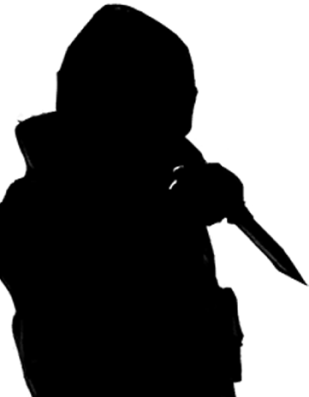
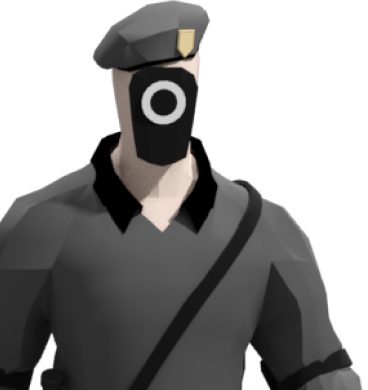
pushy3
- replaced combat mode unit avatar
- new conflict res page
- main menu can go to combat mode

diff --git a/Editor/src/Window/Overlay/ConflictResOverlay.cpp b/Editor/src/Window/Overlay/ConflictResOverlay.cpp
@@ -18,7 +18,8 @@ namespace Tempest
 	void ConflictResOverlay::open_popup(const Event&)
 	{
 		OverlayOpen = true;
-		ConflictBg = tex_map["Assets/ConflictBG.png"];
+		SelectedConflictRes = 0;
+		SelectedSequences.clear();
 	}
 	void ConflictResOverlay::show([[maybe_unused]]Instance& instance)
 	{
@@ -30,51 +31,89 @@ namespace Tempest
 		{
 			window_flags |= ImGuiWindowFlags_NoScrollbar | ImGuiWindowFlags_NoScrollWithMouse;
 
-			//ImGui::PushStyleColor(ImGuiCol_WindowBg, ImVec4(0.0f, 0.0f, 0.0f, 0.3f));
+			ImGui::PushStyleColor(ImGuiCol_WindowBg, ImVec4(0.0f, 0.0f, 0.0f, 0.8f));
 			ImGui::PushStyleVar(ImGuiStyleVar_WindowPadding, { 0,0 });
 			if (ImGui::Begin("Conflict Resolution", &visible, window_flags))
 			{
-				auto drawlist = ImGui::GetWindowDrawList();
-				auto pos = ImGui::GetCursorPos();
-				ImVec2 max = { pos.x + viewport->Size.x,pos.y + viewport->Size.y };
-				
-				drawlist->AddImage((void*)static_cast<size_t>(ConflictBg->GetID()), pos, max);
-				auto scale = viewport->Size / initViewPortSize ;
-				auto scale2 = initViewPortSize / viewport->Size ;
-				auto scale3 = scale * scale2 ;
+				// render the select map image
+				auto image = tex_map["Assets/MM_SelectCR.png"];
+				ImVec2 point = ImGui::GetCursorScreenPos();
+				ImVec2 Min{ point.x, point.y };
+				ImVec2 Max{ Min.x + viewport->Size.x, Min.y + viewport->Size.y };
+				ImGui::GetWindowDrawList()->AddImage((void*)static_cast<size_t>(image->GetID()), Min, Max);
 
-				ImGui::Dummy({ 0, 70.f });
-				UI::SubHeader("Conflict Resolution");
-				ImGui::SetCursorPos({0.f, pos.y + viewport->Size.y * 0.2f});
-				auto curPos = ImGui::GetCursorPos();
-				for (int i = 0; i < 3; i++)
-				{
-					ImGui::SetCursorPos(curPos);
-					ImGui::Dummy({ pos.x + viewport->Size.x * 0.3f, 0.f });
-					ImGui::SameLine();
-					string str = "CONFLICT RES##" + std::to_string(i);
-					UI::UIConflictSelectable(str.c_str(), false, 1);
-					//ImGui::Dummy({ 0.f, 60.f });
-					ImGui::Dummy({ 0.f, viewport->Size.y * 0.07f });
-					curPos = ImGui::GetCursorPos();
-					
-				}
-				
-				auto tex = tex_map["Assets/BackMenuBtn.png"];
+				// render title
+				ImGui::SetCursorPos(ImVec2{ 0,0 });
+				ImGui::Dummy(ImVec2{ 0.f, ImGui::GetContentRegionAvail().y * 0.05f });
+				UI::SubHeader("Select Conflict Resolution");
+				ImGui::Dummy(ImVec2{ 0.f, ImGui::GetContentRegionAvail().y * 0.05f });
+
+
+				// render back button
 				ImGui::SetCursorPos(ImVec2{ viewport->Size.x * 0.02f,viewport->Size.y * 0.03f });
 				ImGui::PushStyleColor(ImGuiCol_Button, ImVec4{ 0,0,0,0 });
 				ImGui::PushStyleColor(ImGuiCol_ButtonActive, ImVec4{ 0,0,0,0 });
 				ImGui::PushStyleColor(ImGuiCol_ButtonHovered, ImVec4{ 0,0,0,0 });
-				if (UI::UIImageButton((void*)static_cast<size_t>(tex->GetID()), ImVec2{ tex->GetWidth() * 0.7f, tex->GetHeight() * 0.7f }, { 0,0 }, { 1,1 }, 0, { 0,0,0,0 }, btnTintHover, btnTintPressed))
+				image = tex_map["Assets/BackMenuBtn.png"];
+
+				if (ImGui::ImageButton((void*)static_cast<size_t>(image->GetID()), ImVec2{ image->GetWidth() * 0.7f, image->GetHeight() * 0.7f }))
+					OverlayOpen = false;
+
+				ImGui::PopStyleColor(3);
+
+				// draw the child
+				const ImVec2 child_size{ viewport->Size.x * 0.25f, viewport->Size.y * 0.55f };
+				ImGui::SetCursorPos(ImVec2{ viewport->Size.x * 0.5f - child_size.x * 0.5f, viewport->Size.y * 0.55f - child_size.y * 0.5f });
+				if (ImGui::BeginChild("##LoadConflictRes", child_size, true))
+				{
+					const ImVec2 cusor{ ImGui::GetCursorPosX() + 200.0f, ImGui::GetCursorPosY() + 40.0f };
+					// TODO: load the conflict stuff here
+
+					for (int i = 0; i < 4; i++)
+					{
+						ImGui::PushID(std::string{ "ConflictRes" + std::to_string(i) }.c_str());
+						if (UI::UIButton_2("Sample_Conflict", "Sample_Conflict", ImVec2{ cusor.x, cusor.y + i * 90.0f }, { 50,20 }, FONT_BTN, SelectedConflictRes == i))
+						{
+							SelectedConflictRes = i;
+						}
+						ImGui::PopID();
+					}
+				}
+
+				ImGui::EndChild();
+
+				ImGui::SetCursorPos(ImVec2{ viewport->Size.x * 0.8f - child_size.x * 0.5f, viewport->Size.y * 0.55f - child_size.y * 0.5f });
+				if (ImGui::BeginChild("##LoadSequenceConflictRes", child_size, true))
+				{
+					const ImVec2 cusor{ ImGui::GetCursorPosX() + 200.0f, ImGui::GetCursorPosY() + 40.0f };
+
+					// TODO: render all the sequences from selected conflict
+					// TODO: make a popup menu
+					for (int i = 0; i < 8; i++)
+					{
+						std::string seq_name = "Sample_Seq" + std::to_string(i);
+						ImGui::PushID(seq_name.c_str());
+						bool selected = std::find(SelectedSequences.begin(), SelectedSequences.end(), i) != SelectedSequences.end();
+						if (UI::UIButton_2(seq_name.c_str(), seq_name.c_str(), ImVec2{ cusor.x, cusor.y + i * 90.0f }, { 50,20 }, FONT_BTN, selected))
+						{
+							Service<EventManager>::Get().instant_dispatch< MainMenuSequencePopupTrigger>(SelectedSequences);
+						}
+						ImGui::PopID();
+					}
+				}
+
+				ImGui::EndChild();
+
+				if (UI::UIButton_2("Next", "Next", ImVec2{ viewport->Size.x * 0.9f, viewport->Size.y * 0.95f }, { -20,20 }, FONT_BTN))
 				{
 					OverlayOpen = false;
+					Service<EventManager>::Get().instant_dispatch<OpenTurnOrderOverlay>();
 				}
-				ImGui::PopStyleColor(3);
 			}
-			ImGui::PopStyleVar();
 			ImGui::End();
+			ImGui::PopStyleVar();
+			ImGui::PopStyleColor();
 			
-			//ImGui::PopStyleColor();
 		}
 	}
 }

diff --git a/Editor/src/InstanceManager/InstanceManager.cpp b/Editor/src/InstanceManager/InstanceManager.cpp
@@ -148,7 +148,6 @@ namespace Tempest
 		instance->register_always<WeaponSheetOverlay>();
 		instance->register_always<SimulateOverlay>();
 		instance->register_always<SimulateResultOverlay>();
-		instance->register_always<ConflictResOverlay>();
 		instance->register_always<AttackSystemOverlay>();
 		instance->register_always<MainMenuOverlay>();
 		instance->register_always<BuildModeOverlay>();
@@ -168,6 +167,7 @@ namespace Tempest
 		instance->register_window<DiagnosticsWindow>()->visible = false;
 		//instance->register_window<test_window>()->visible = false;
 		//instance->register_window<test_window3>();
+		instance->register_always<ConflictResOverlay>();
 		instance->register_always<CombatModeOverlay>();
 		instance->register_always<TurnOrderOverlay>();
 		instance->register_always<PlaceUnitsOverlay>();

diff --git a/Editor/src/Window/Overlay/MainMenuOverlay.cpp b/Editor/src/Window/Overlay/MainMenuOverlay.cpp
@@ -12,6 +12,8 @@
 #include "Tempest/src/Graphics/OpenGL/Texture.h"
 #include "Tempest/src/Graphics/OpenGL/RenderSystem.h"
 #include "MainMenuOverlay.h"
+#include <Tempest/src/Instance/EditTimeInstance.h>
+#include <Editor/src/InstanceManager/InstanceConfig.h>
 
 namespace Tempest
 {
@@ -478,7 +480,12 @@ namespace Tempest
 
 			if (UI::UIButton_2("Next", "Next", ImVec2{viewport.Size.x * 0.9f, viewport.Size.y * 0.95f }, { -20,20 }, FONT_BTN))
 			{
-				// TODO: bring to add units page
+				OverlayOpen = false;
+				Service<EventManager>::Get().instant_dispatch<LoadNewInstance>(
+					dynamic_cast<EditTimeInstance&>(instance).get_full_path(),
+					MemoryStrategy{},
+					InstanceType::RUN_TIME);
+				Service<EventManager>::Get().instant_dispatch<OpenTurnOrderOverlay>();
 			}
 		}
 			break;

diff --git a/Editor/src/Window/Overlay/ConflictResOverlay.h b/Editor/src/Window/Overlay/ConflictResOverlay.h
@@ -39,8 +39,7 @@ namespace Tempest
         const float padding = 50.0f;
         const float halfPadding = padding * 0.5f;
         ImVec2 initViewPortSize = ImGui::GetMainViewport()->Size;
-        tsptr<Texture> ConflictBg;
-        ImVec4 btnTintHover = { 0.922f,0.922f,0.922f,1.f };
-        ImVec4 btnTintPressed = { 0.768f, 0.768f, 0.768f, 1.f };
+        int SelectedConflictRes{ 0 };
+        std::vector<int> SelectedSequences; // will this be an entity id?
     };
 }
